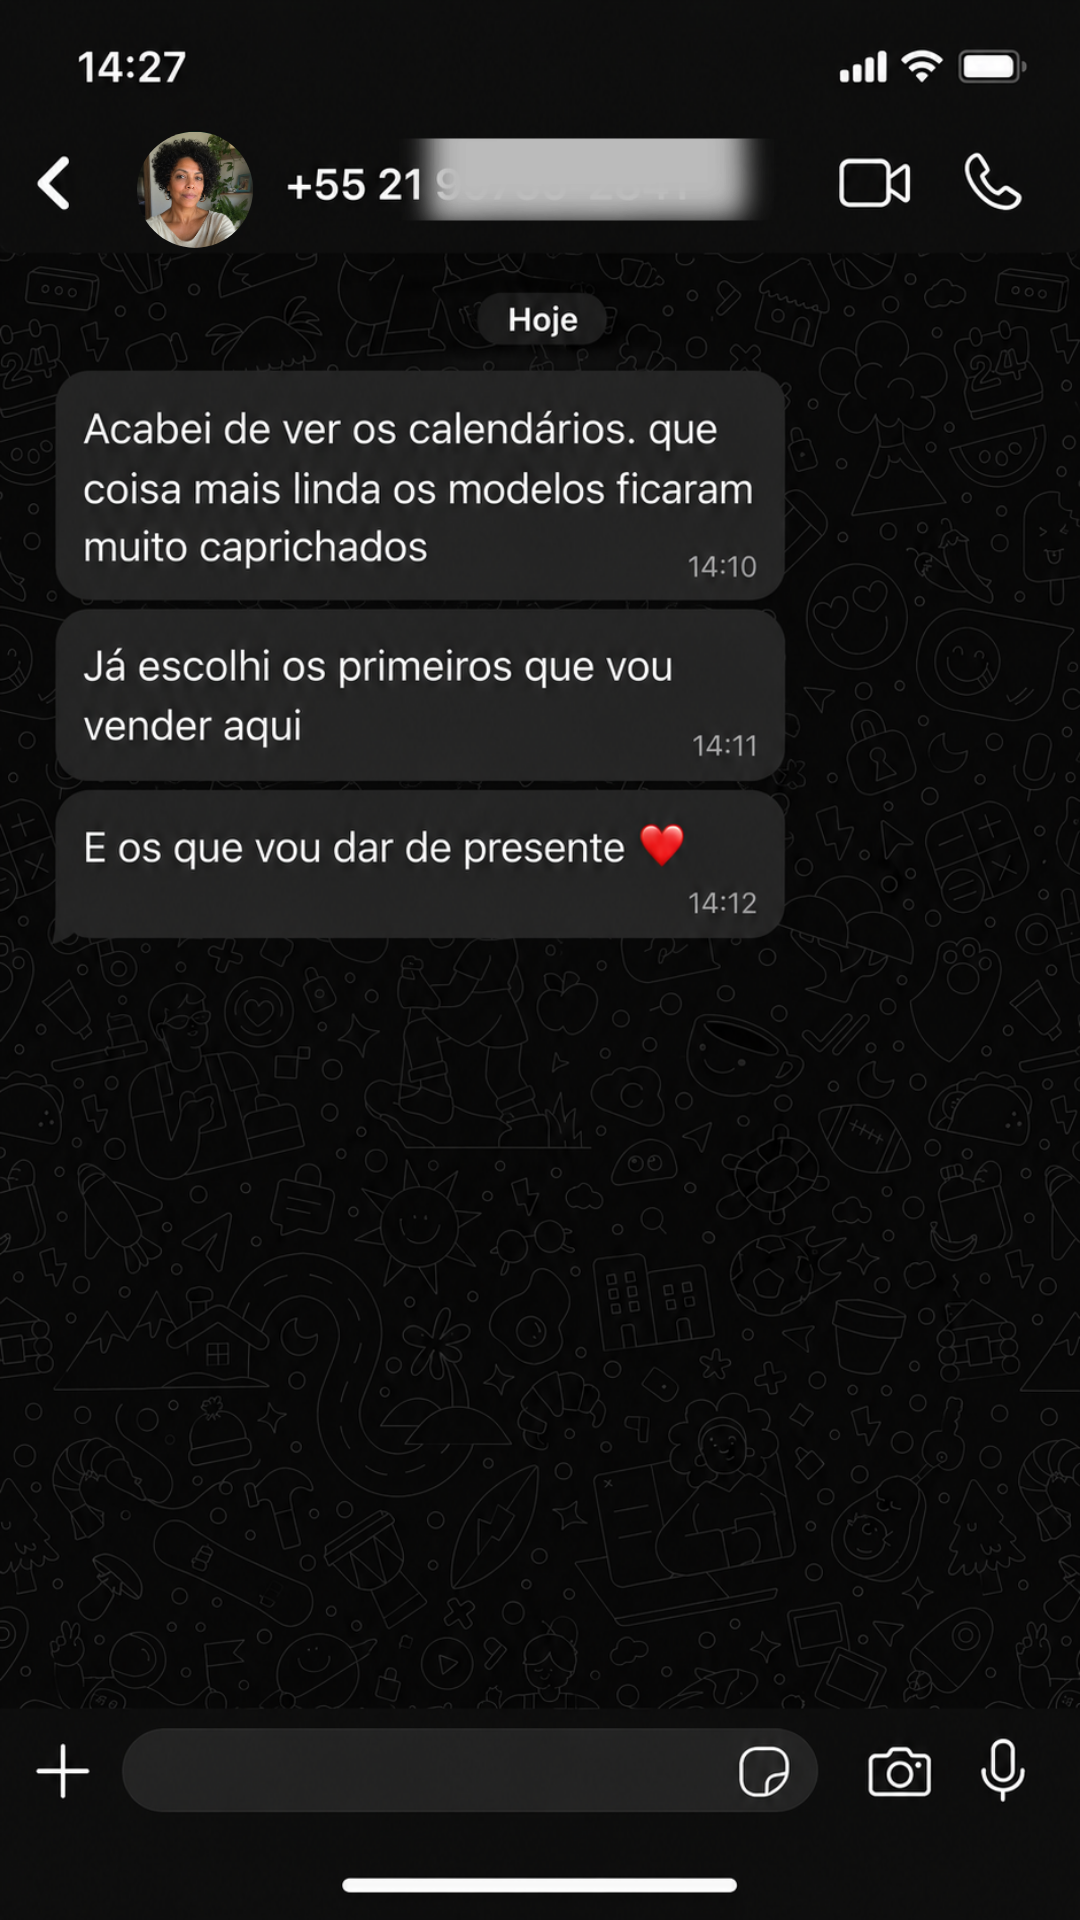
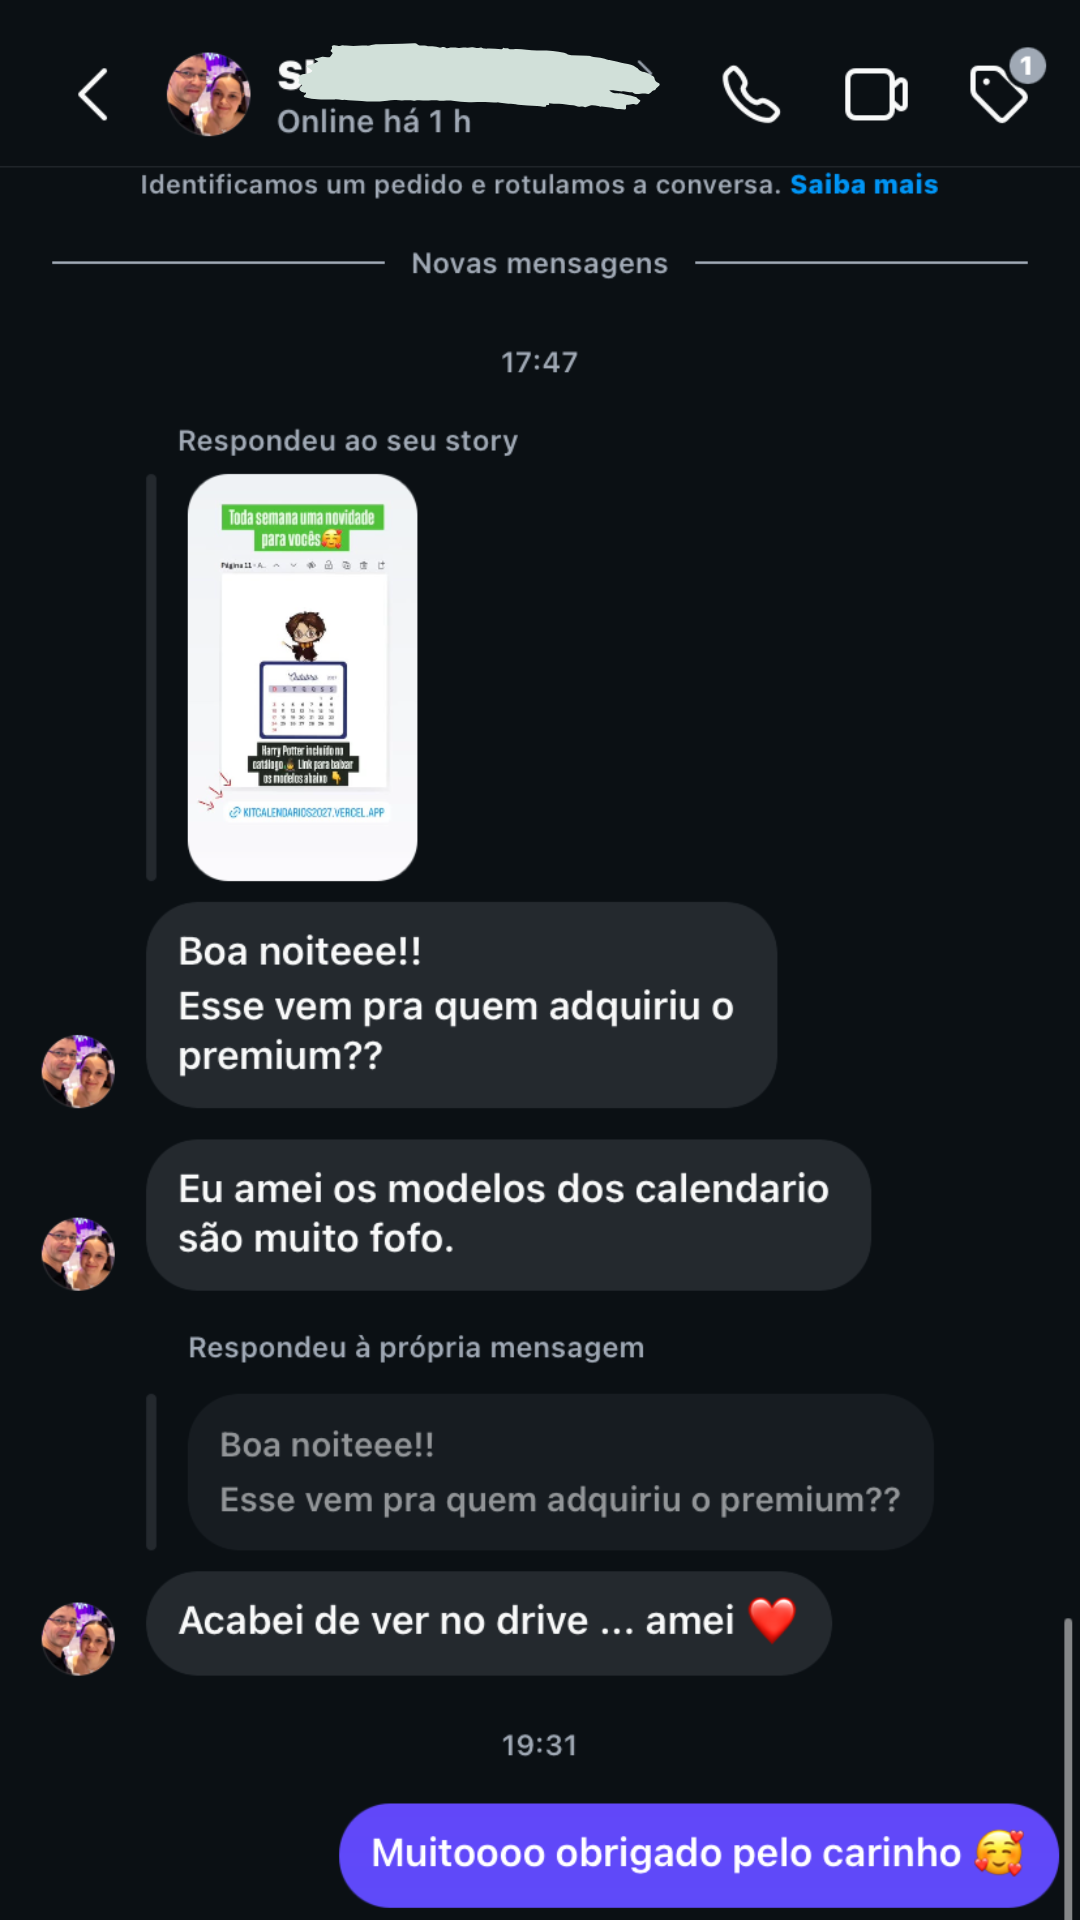
ajustes depoimentos

diff --git a/index.html b/index.html
@@ -658,6 +658,8 @@ var e=ttq._i[t]||[],n=0;n<ttq.methods.length;n++)ttq.setAndDefer(e,ttq.methods[n
           <div class="depo-img-slide"><img src="img/depoimento-2.webp" alt="Depoimento real 2"></div>
           <div class="depo-img-slide"><img src="img/depoimento-3.webp" alt="Depoimento real 3"></div>
           <div class="depo-img-slide"><img src="img/depoimento-4.webp" alt="Depoimento real 4"></div>
+          <div class="depo-img-slide"><img src="img/depoimento-5.webp" alt="Depoimento real 5"></div>
+          <div class="depo-img-slide"><img src="img/depoimento-6.webp" alt="Depoimento real 6"></div>
         </div>
       </div>
       <div class="carousel-nav">
